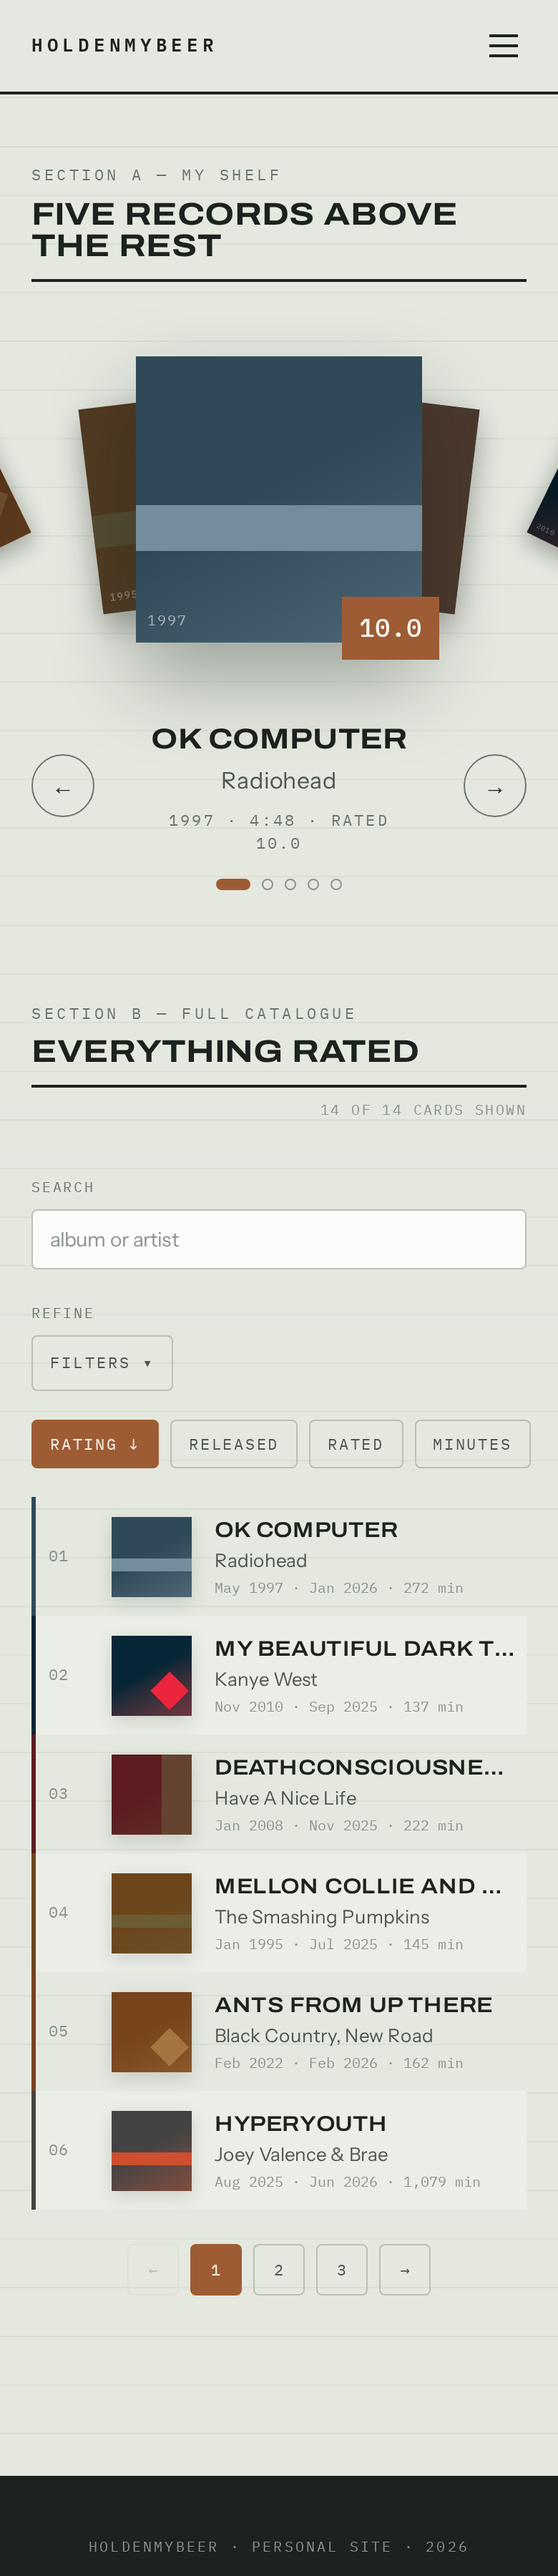
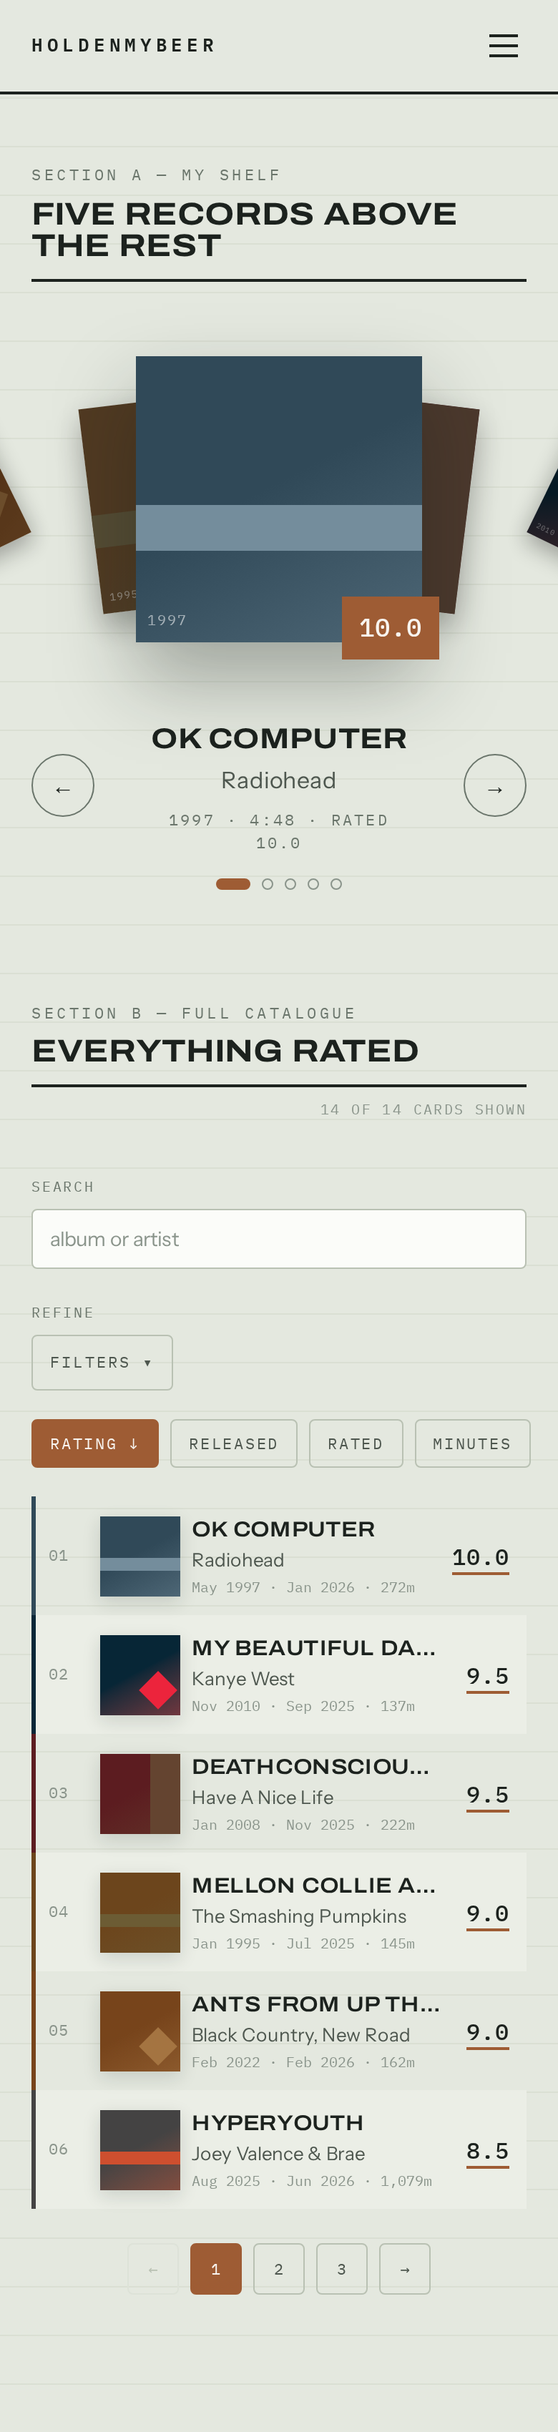
album popup problems fixed

diff --git a/web/src/routes/music/+page.svelte b/web/src/routes/music/+page.svelte
@@ -1,4 +1,5 @@
 <script lang="ts">
+	import { browser } from '$app/environment';
 	import { replaceState } from '$app/navigation';
 	import { page } from '$app/state';
 	import SectionHeader from '$lib/design/SectionHeader.svelte';
@@ -109,18 +110,29 @@
 		search = '';
 	}
 
-	// open / close detail via ?open=<albumId>
-	const openId = $derived(page.url.searchParams.get('open'));
+	// open / close detail. State drives rendering; the URL is kept in sync
+	// for deep-linking (?open=<albumId>) but is not the source of truth.
+	let openId = $state<string | null>(page.url.searchParams.get('open'));
 	const openAlbum = $derived(data.albums.find((a) => a.id === openId) ?? null);
+
+	function syncUrl(id: string | null) {
+		if (!browser) return;
+		const u = new URL(window.location.href);
+		if (id) u.searchParams.set('open', id);
+		else u.searchParams.delete('open');
+		try {
+			replaceState(u, {});
+		} catch {
+			history.replaceState(history.state, '', u);
+		}
+	}
 	function open(id: string) {
-		const u = new URL(page.url);
-		u.searchParams.set('open', id);
-		replaceState(u, {});
+		openId = id;
+		syncUrl(id);
 	}
 	function close() {
-		const u = new URL(page.url);
-		u.searchParams.delete('open');
-		replaceState(u, {});
+		openId = null;
+		syncUrl(null);
 	}
 
 	const arrow = (k: typeof sortKey) => (sortKey === k ? (sortDir === 'desc' ? ' ↓' : ' ↑') : '');
@@ -264,8 +276,8 @@
 						<li class="odd:bg-transparent even:bg-zebra">
 							<button
 								onclick={() => open(a.id)}
-								class="grid w-full items-center gap-4 py-3 pr-2 text-left transition-colors duration-150 hover:bg-rowhover focus-visible:outline-2 focus-visible:-outline-offset-2 focus-visible:outline-copper {mobile
-									? 'grid-cols-[2.5rem_3.5rem_1fr]'
+								class="grid w-full items-center gap-4 py-3 pr-3 text-left transition-colors duration-150 hover:bg-rowhover focus-visible:outline-2 focus-visible:-outline-offset-2 focus-visible:outline-copper {mobile
+									? 'grid-cols-[2rem_3rem_1fr_auto]'
 									: 'grid-cols-[3rem_3.5rem_1fr_7rem_7rem_7rem_5rem]'}"
 								style="box-shadow: inset 3px 0 0 {c1}"
 							>
@@ -284,8 +296,8 @@
 									</span>
 									<span class="block truncate text-[13px] text-ink-muted">{a.artist}</span>
 									{#if mobile}
-										<span class="mt-0.5 block font-mono text-[10px] text-ink-faintest">
-											{dateShort(a.release_date)} · {dateShort(a.date_rated)} · {fmt(a.lifetime_minutes)} min
+										<span class="mt-0.5 block truncate font-mono text-[10px] text-ink-faintest">
+											{dateShort(a.release_date)} · {dateShort(a.date_rated)} · {fmt(a.lifetime_minutes)}m
 										</span>
 									{/if}
 								</span>
@@ -293,15 +305,15 @@
 									<span class="font-mono text-[12px] text-ink-muted">{dateShort(a.release_date)}</span>
 									<span class="font-mono text-[12px] text-ink-muted">{dateShort(a.date_rated)}</span>
 									<span class="font-mono text-[12px] text-ink-muted">{fmt(a.lifetime_minutes)}</span>
-									<span class="justify-self-end">
-										<span
-											class="font-mono text-xl font-medium text-ink"
-											style="border-bottom:2px solid var(--color-copper); padding-bottom:1px"
-										>
-											{rate(a.rating)}
-										</span>
-									</span>
 								{/if}
+								<span class="justify-self-end">
+									<span
+										class="font-mono {mobile ? 'text-base' : 'text-xl'} font-medium text-ink"
+										style="border-bottom:2px solid var(--color-copper); padding-bottom:1px"
+									>
+										{rate(a.rating)}
+									</span>
+								</span>
 							</button>
 						</li>
 					{/each}

diff --git a/web/src/lib/design/AlbumDetail.svelte b/web/src/lib/design/AlbumDetail.svelte
@@ -52,24 +52,24 @@
 				</button>
 			</div>
 
-			<div class="mt-6 flex gap-5">
-				<div class="w-[128px] shrink-0 shadow-[0_12px_30px_rgba(10,14,11,.35)]">
+			<div class="mt-6 flex gap-4 sm:gap-5">
+				<div class="w-[92px] shrink-0 shadow-[0_12px_30px_rgba(10,14,11,.35)] sm:w-[128px]">
 					<Sleeve album={album} />
 				</div>
-				<div class="min-w-0">
+				<div class="min-w-0 flex-1">
 					<p class="text-sm text-white/55">{album.artist}</p>
 					<h2
-						class="font-display mt-1 text-[clamp(28px,4vw,40px)] leading-[0.95] font-bold u-caps"
-						style="font-variation-settings:'wdth' 116"
+						class="font-display mt-1 text-[clamp(24px,7vw,38px)] leading-[0.95] font-bold u-caps"
+						style="font-variation-settings:'wdth' 114"
 					>
 						{album.name}
 					</h2>
-					<div class="mt-2 flex items-end gap-3">
-						<span class="font-mono text-[clamp(30px,5vw,42px)] leading-none font-medium">
+					<div class="mt-2 flex flex-wrap items-end gap-x-3 gap-y-1">
+						<span class="font-mono text-[clamp(28px,8vw,40px)] leading-none font-medium">
 							{rate(album.rating)}
 						</span>
 						<span class="pb-1 font-mono text-[10px] leading-tight tracking-[0.12em] text-white/50 u-caps">
-							Out of 10<br />Rated {dateLong(album.date_rated)}
+							Out of 10 · Rated {dateLong(album.date_rated)}
 						</span>
 					</div>
 				</div>
@@ -91,14 +91,16 @@
 				</div>
 			{/if}
 
-			<dl class="mt-6 grid grid-cols-3 gap-px overflow-hidden rounded-[3px] bg-white/10 text-sm">
+			<dl
+				class="mt-6 grid grid-cols-2 gap-px overflow-hidden rounded-[3px] bg-white/10 text-sm sm:grid-cols-3"
+			>
 				{#each [['Released', dateLong(album.release_date)], ['First listened', dateLong(album.first_listened)], ['Length', mmss(album.length_ms)]] as [k, v] (k)}
 					<div class="bg-[#12160f]/60 p-3">
 						<dt class="font-mono text-[9px] tracking-[0.14em] text-white/40 u-caps">{k}</dt>
 						<dd class="mt-1 font-mono">{v}</dd>
 					</div>
 				{/each}
-				<div class="col-span-2 bg-[#12160f]/60 p-3">
+				<div class="bg-[#12160f]/60 p-3">
 					<dt class="font-mono text-[9px] tracking-[0.14em] text-white/40 u-caps">Lifetime minutes</dt>
 					<dd class="mt-1 font-mono">{fmt(album.lifetime_minutes)}</dd>
 				</div>

diff --git a/docs/BP4-catalogue-page.md b/docs/BP4-catalogue-page.md
@@ -59,6 +59,19 @@ album).
 or tell me the album+score list and I'll bulk-update. `scripts/seed-ratings.sql`
 deletes its own rows on re-run and must not reach `main`.
 
+## Post-review fixes (2026-08-28)
+
+- **Rows / carousel hero weren't opening the detail panel** — the open/close
+  state was derived from `?open=` via `replaceState`, which didn't update
+  `page.url` reactively on the deployed build. Now a plain `$state` drives
+  rendering; the URL is still synced for deep-links. Verified with a real
+  click test (desktop + mobile → dialog opens).
+- **Mobile rows didn't show the score** — it was inside the `{#if !mobile}`
+  block. Moved out; mobile rows now show the copper-underlined score in
+  their own column, meta line tightened to one line.
+- Mobile detail sheet: smaller sleeve, 2-col fact grid, score wraps under
+  the title instead of colliding with it.
+
 ## Known gaps (not bugs)
 
 1. **Per-track "share of listening" is thin** — only ~150 tracks are
